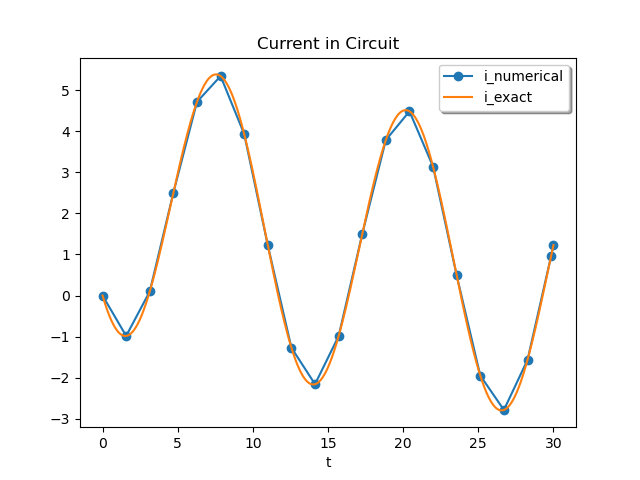
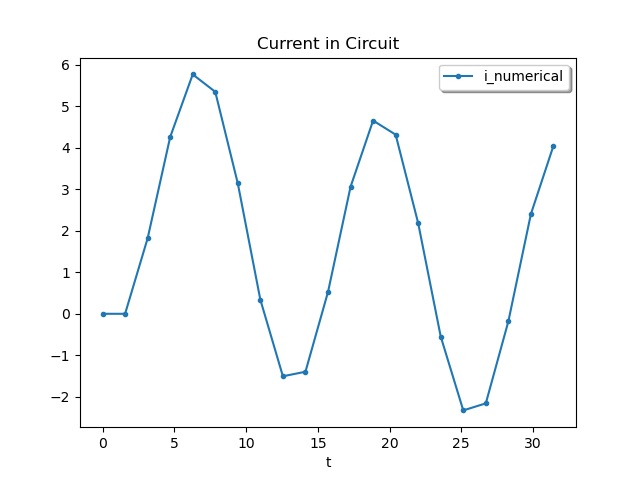
Save

diff --git a/power-flows/ode_solver.py b/power-flows/ode_solver.py
@@ -1,0 +1,79 @@
+from scipy.optimize import fsolve
+import numpy as np
+import math
+import matplotlib.pyplot as plt
+
+# Function to evaluate the next value
+def evaluate_next(rate_fun,u_old,t,dt):
+    u_new = u_old + rate_fun(t,u_old)*dt
+    return u_new
+
+def evaluate_next_alt(rate_fun,u_old,t,dt):
+
+    # Define internal residual function
+    def _res(u_new, rate_fun, u_old, t, dt):
+        return (u_new-u_old)/dt - rate_fun(t, u_new)
+
+    # Call a solver to find new based on residual analysis
+    u_new = fsolve(_res, u_old, args=(rate_fun, u_old, t, dt))
+
+    # Returns an array
+    return u_new[0]
+
+# Basic loop function for integration
+def integration_loop(rate_fun,u0,t0,tf,dt):
+    t = []
+    u = []
+
+    t.append(t0)
+    u.append(u0)
+    t_sim = t0
+
+    i=0
+    while t_sim < tf:
+        t_sim = dt+t_sim
+        i+=1
+
+        t.append(t_sim)
+        #u.append( evaluate_next(rate_fun,u[i-1],t_sim,dt) )
+        u.append( evaluate_next_alt(rate_fun,u[i-1],t_sim,dt) )
+
+    return t,u
+
+
+def rate_fun_1(t, u):
+    # Parameters
+    w = 0.5           # Omega
+    V = 20.           # Voltage
+    a = -math.pi/4    # Alpha
+    R = 0.8           # Resistance
+    L = 8./w          # Impedence
+    return math.sqrt(2)*(V/L)*math.sin(w*t+a) - (R/L)*u
+
+if __name__=="__main__":
+
+    t0= 0
+    tf = 30
+    io = 0.
+    w = 0.5           # Omega
+    a = -math.pi/4    # Alpha
+    t_exp = []
+    i_exp = []
+    i_exp.append(io)
+    t_exp.append(t0)
+    t_sim = 0
+    dt = 1
+
+    dt = 0.5*min(max((1/w)*(math.pi/2 - a),(1/w)*(math.pi/2 + a)), (1/w)*(math.pi/2))
+
+    t_exp, i_exp = integration_loop(rate_fun_1,io,t0,tf,dt)
+
+    # Plot just the calculated points
+    plt.plot(t_exp, i_exp, marker = '.')
+
+    plt.xlabel('t')
+    plt.legend(['i_numerical'], shadow=True)
+    #plt.legend(['i_exact', 'i_stable_explicit'], shadow=True)
+    plt.title('Current in Circuit')
+    plt.savefig('Result.png')
+    plt.show()
